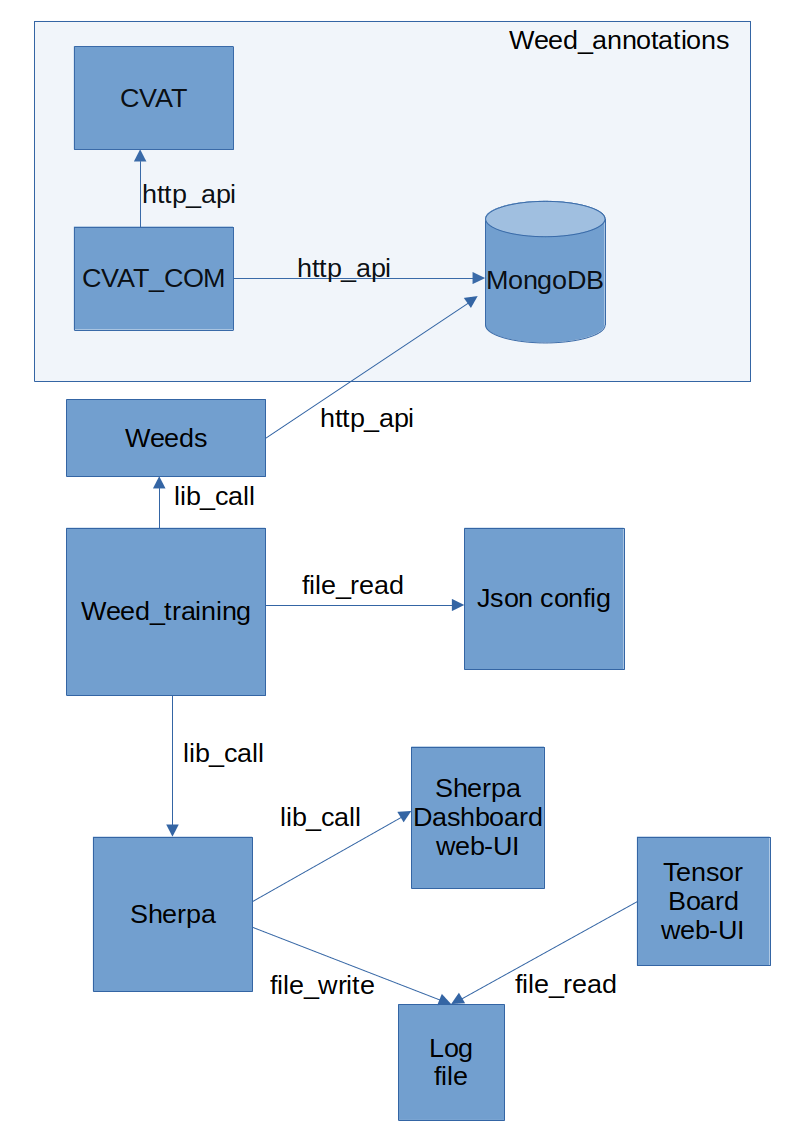
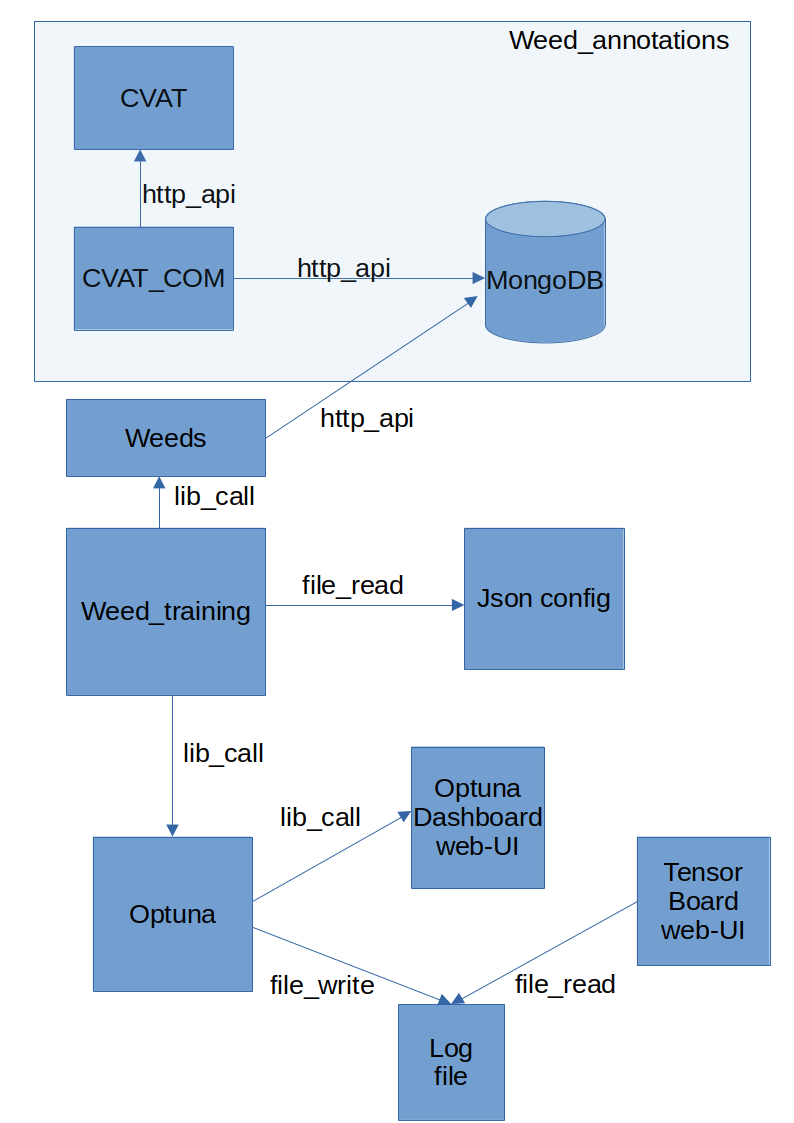
Update docs after replacing Sherpa with Optuna.

diff --git a/readme.md b/readme.md
@@ -4,7 +4,7 @@ For an overview of the Openweeds project and some background on this documentati
 
 ## Architecture
 - The code depends on having a mongodb instance with all annotation data collected from CVAT, meaning weed_annotations must first be started (unless going for *fast-track to training*, see [obdb_docs](https://github.com/edl78/obdb_docs).
-- Bayesian optimization performed via Sherpa for hyperparameters.
+- Bayesian optimization performed via Optuna for hyperparameters.
 - Can output a number of networks ['resnet18', 'resnet34', 'resnet50', 'resnet101', 'resnet152'] or any combination of pytorch available networks. As a default the code is configured to train a resnet18 for the weed detection task.
 - If fast track method is chosen, see [obdb_docs](https://github.com/edl78/obdb_docs), weed_training is stand alone and depends only on the image data and pickle files.
 
@@ -22,15 +22,19 @@ For an overview of the Openweeds project and some background on this documentati
 - There is an optional WASP(**TBD: add link**) contributed segmentation dataset, it can be uploaded to cvat via `docker-compose -f docker-compose-upload-wasp-segmentation-data-cvat.yml up` and assumes the data folder with images named wasp is located in the fielddata folder.
 
 ### Training
-All training depend on pickle files. These can be created (see Auto-annotations section below) or found in the `artefacts` folder. To use the downloaded pickle files, they must be moved from the artefacts folder to the train folder according the set path variables below (default `/train/pickled_weed`). The path to the pickle files to be used can be set by changing the variables `TRAINING_PICKLE_PATH` and `VALIDATION_PICKLE_PATH` in the `.env` file. *Important to note that these paths are not host paths but rather paths as seen from the inside of the container using them.* Thus any pickle file must be found somewhere under the `train` folder as mounted by the docker-compose file.
+All training depend on pickle files. These can be created (see Auto-annotations section below) or found in the `/train/pickled_weed/` folder. The path to the pickle files to be used can be set by changing the variables `TRAINING_PICKLE_PATH` and `VALIDATION_PICKLE_PATH` in the `.env` file. *Important to note that these paths are not host paths but rather paths as seen from the inside of the container using them.* Thus any pickle file must be found somewhere under the `train` folder as mounted by the docker-compose file.
 
 To start training, the main docker-compose is used, run: `docker-compose up -d` (i.e. run without specific docker-compose file, run without -d for console output). To run interactive `run_training.sh` can be used to run interactive if so desired. Fill in missing usernames and passwords in the `run_training.sh` shell script before starting it.
 
 The trained networks can then be found in the mapped folder `train` or `/train` in the container. A file with optimal training parameters is also located together with the network.
 
-Bayesian hyper parameter search is implemented with the Sherpa library. Use this by setting `run_hpo`: 1 in `code/settings_file_gt_train_val.json` under respective network. 
+Bayesian hyper parameter search is implemented with the Optuna library. Use this by setting `run_hpo`: 1 in `code/settings_file_gt_train_val.json` under respective network. 
 
-Watch the hyper parameter tuning on localhost:8880 and the training and validation losses for all runs on localhost:6006 after pointing your local tensorboard to code/runs/name_of_the_run
+To start the Optuna-dashboard:
+- Run `docker ps` to list the active containers. Use the `CONTAINER ID` for the `training:v2 image` and
+- Run `docker exec -it CONTAINER ID /bin/bash` which will give you a terminal to the container running the Optuna HPO.
+- inside the container termainal run (choose your own prefered port number): `optuna-dashboard --port 8084 --net=host sqlite:///train/db.sqlite3:8087`
+-   Watch the hyper parameter tuning on localhost:8084 or your port of choice and the training and validation losses for all runs on localhost:6006 after pointing your local tensorboard to code/runs/name_of_the_run
 
 
 
@@ -85,7 +89,7 @@ Watch the hyper parameter tuning on localhost:8880 and the training and validati
     "save_dir": "/train/pickled_weed",
     "writer_dir": "/train/runs",
     "dataset_dir": "/weed_data",
-    "sherpa_parameters": {
+    "hpo_parameters": {
         "lr": [0.000005, 0.001],
         "weight_decay": [0.00001, 0.9],
         "momentum": [0.1, 0.9],
@@ -145,7 +149,8 @@ There are two ways to load annotations into MongoDB.
 ### Metrics
 - Copy trained model to `/train`. For simple test copy `resnet18_model.pth` from `artefacts` folder to `/train`, otherwise use your own model. Path to model can also be set in `docker-compose-metrics.yml`. Change other parameters as required.
 - Run with: `docker-compose -f docker-compose-metrics.yml up`
-- Output in `train/class_metrics.json` file which is used to produce graphs default put under `train/result_figures/` with a number of SVG files.
+- Output in `train/AveragePrecision_YY_MM_DD_HH_MM_SS.json`, where `YY_MM_DD_HH_MM_SS` is the date. 
+- TODO: Remove other metrics? class_metrics.json which is used to produce graphs default put under `train/result_figures/` with a number of SVG files.
 
 
 ## Auto annotation - life-cycle of annotations
